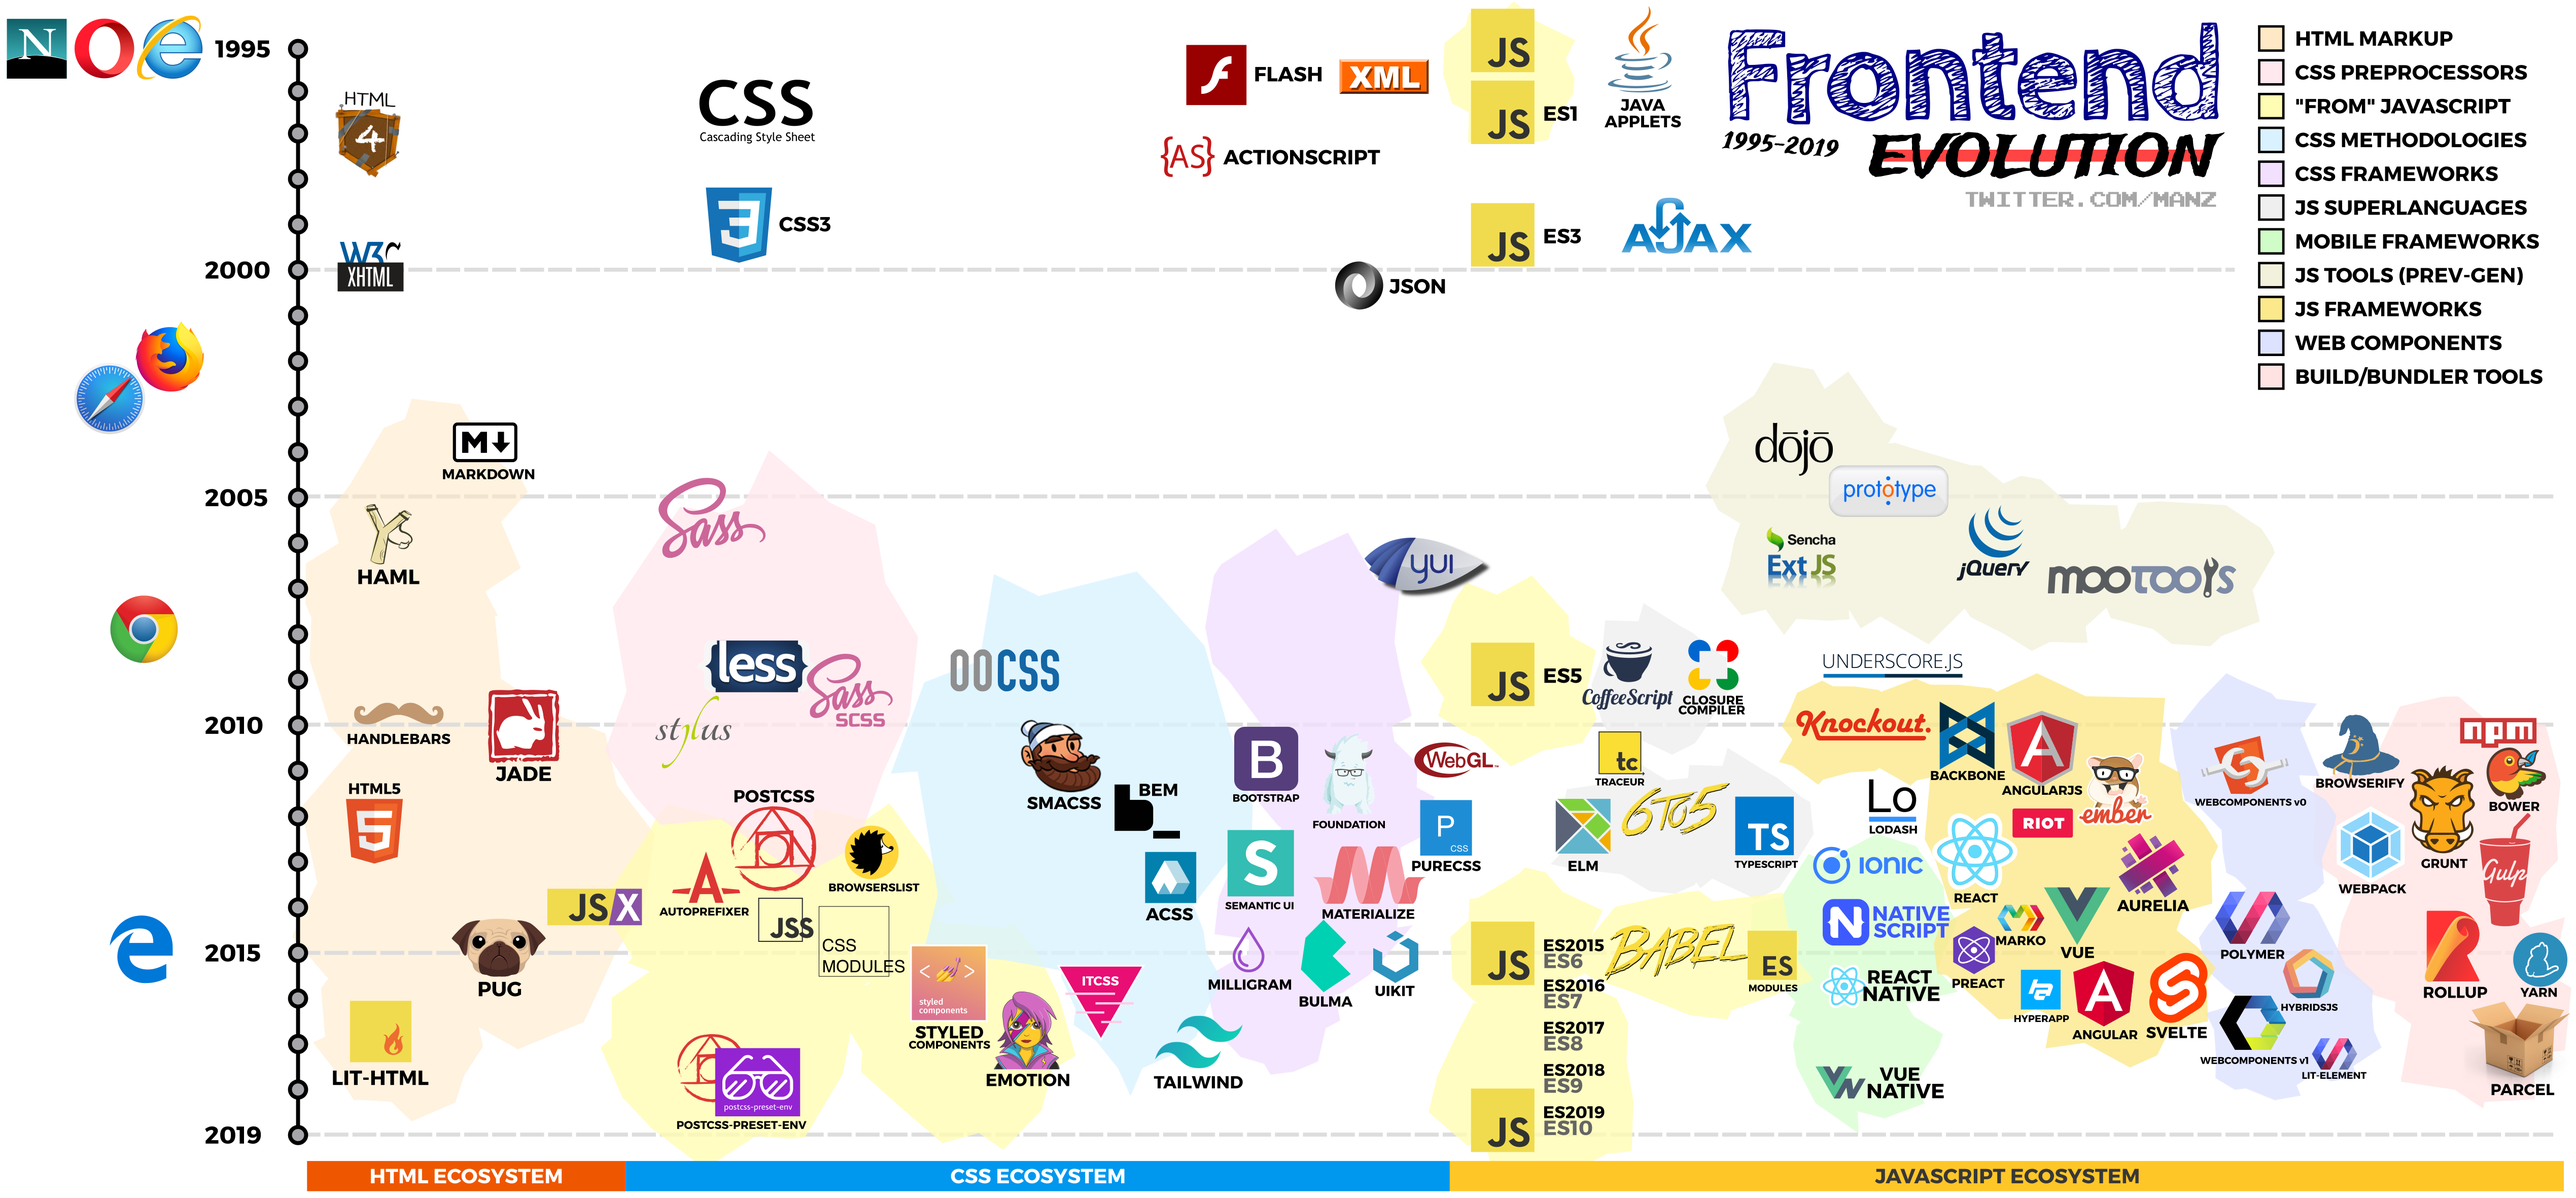
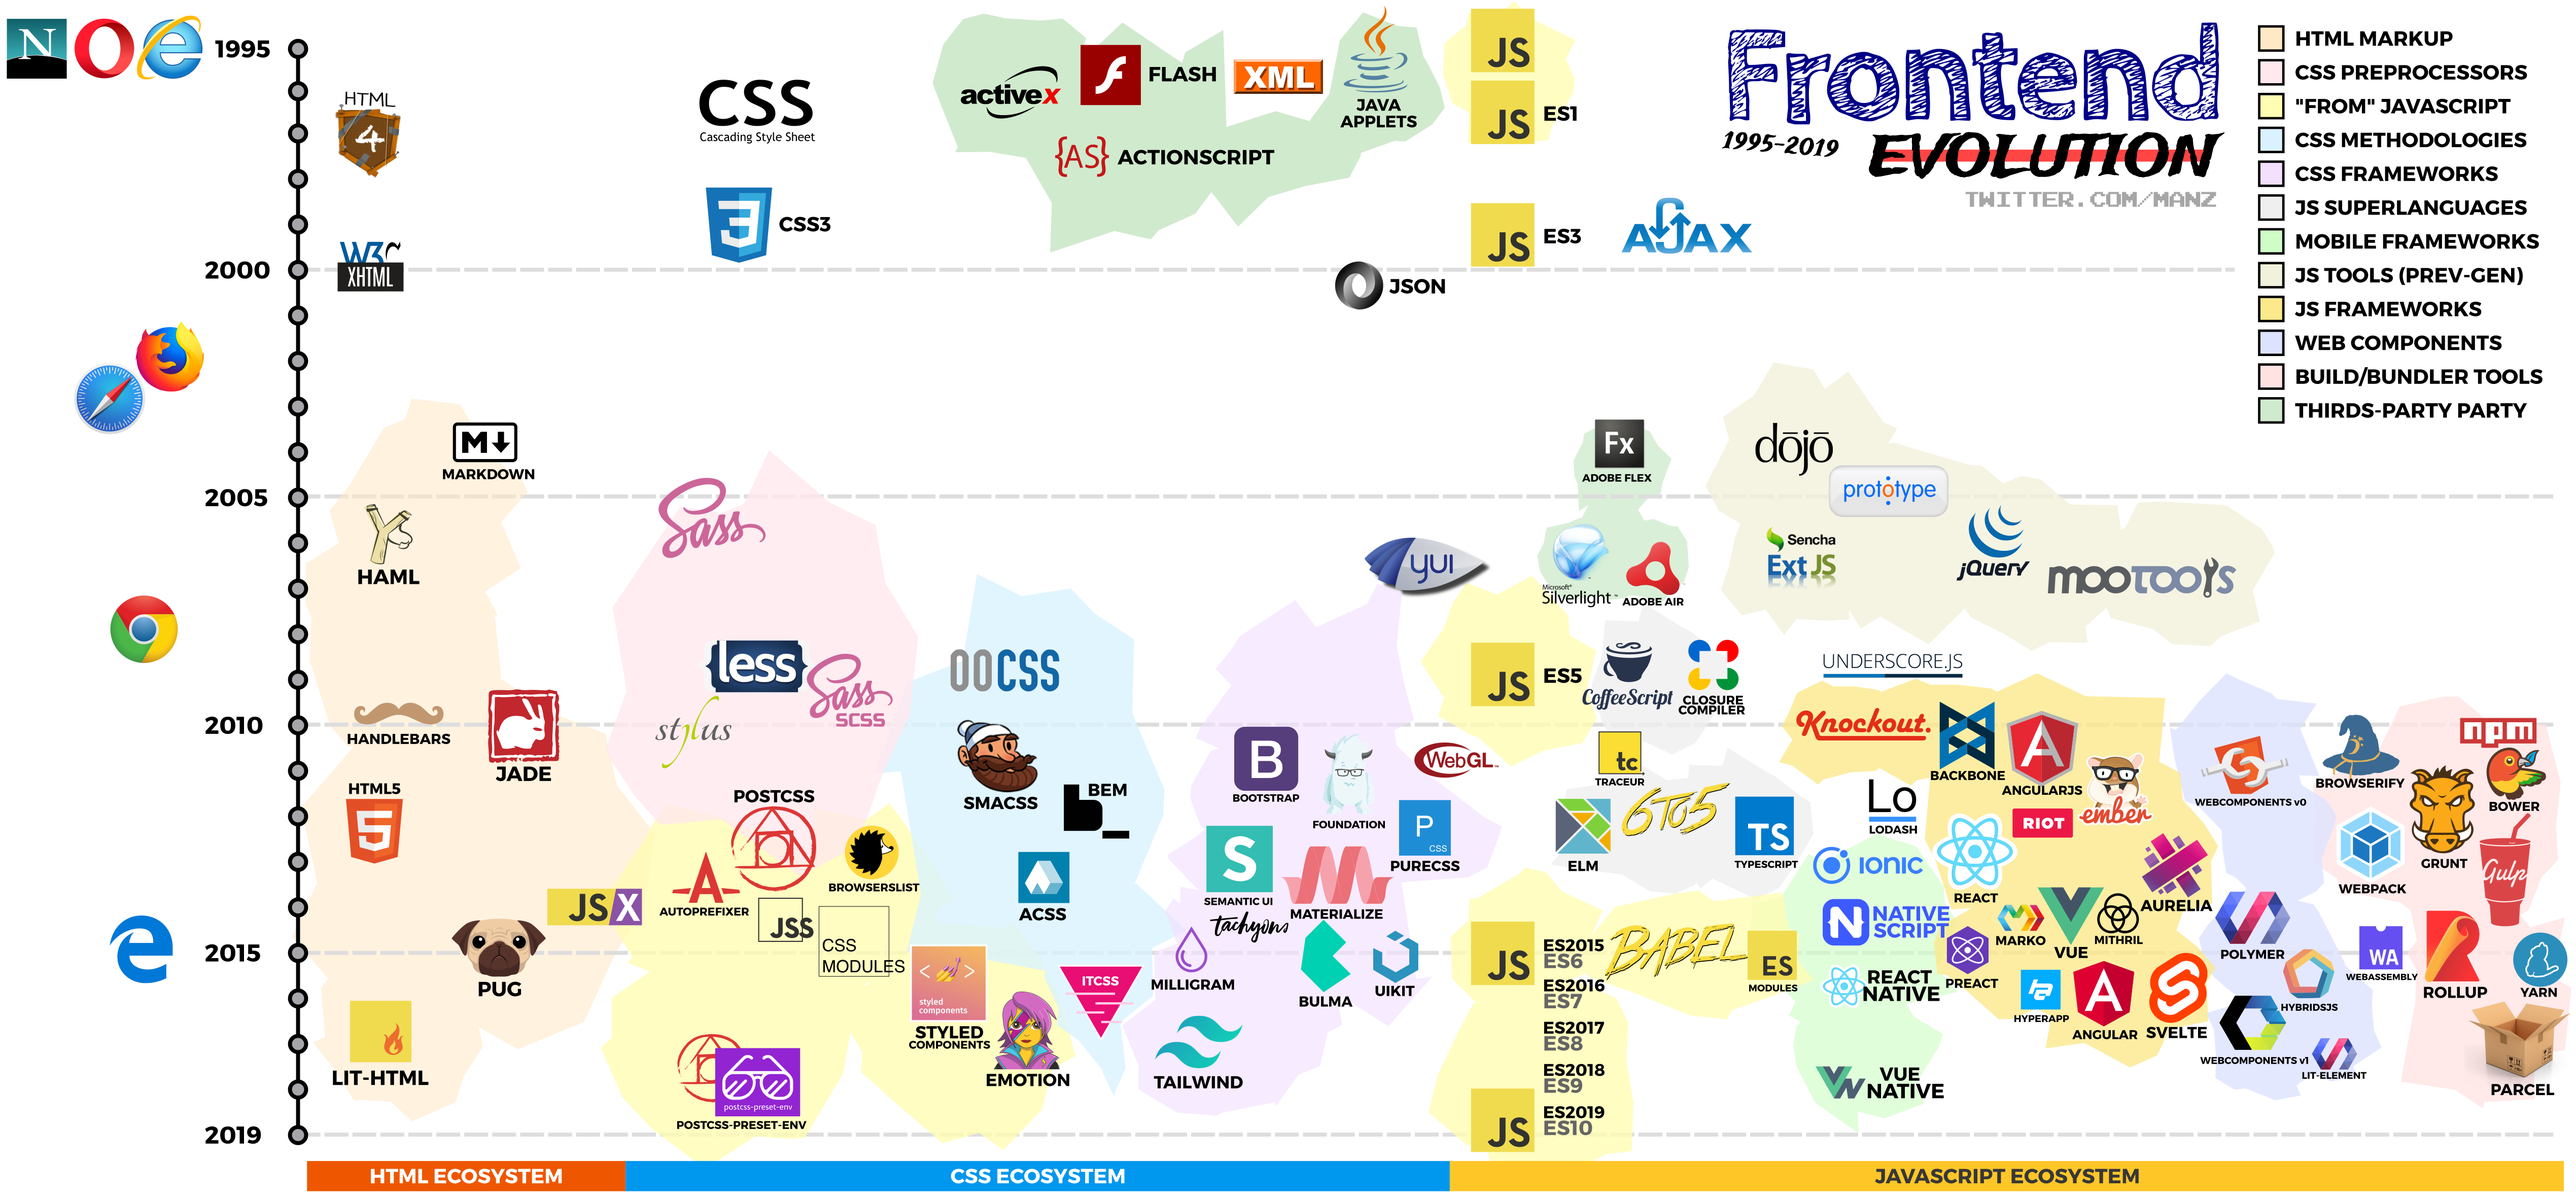
Silverlight, flex, air & others added

diff --git a/README.md b/README.md
@@ -68,6 +68,7 @@
 - [2012] Pure CSS <https://purecss.io/>
 - [2013] Semantic UI <https://semantic-ui.com/>
 - [2013] Materialize CSS <https://materializecss.com/>
+- [2014] Tachyons <https://tachyons.io/>
 - [2015] Milligram <https://milligram.io/>
 - [2015] Bulma <https://bulma.io/>
 - [2015] UIKit <https://getuikit.com/>
@@ -78,9 +79,14 @@
 ### Third-party & Others
 
 - [1995] Java Applets* <https://www.java.com/es/>
+- [1996] ActiveX [http://activex.microsoft.com/](http://web.archive.org/web/20050930205552/http://activex.microsoft.com/)
 - [1996] XML <https://www.w3.org/XML/>
 - [1997] ActionScript <https://www.adobe.com/devnet/actionscript.html>
+- [2004] Adobe Flex <https://www.adobe.com/es/products/flex.html>
+- [2007] Silverlight <https://www.microsoft.com/silverlight/>
+- [2008] Adobe AIR <https://www.adobe.com/products/air.html>
 - [2011] WebGL <https://www.khronos.org/webgl/>
+- [2015] WebAssembly <https://webassembly.org/>
 
 \* *Not Javascript*
 
@@ -126,6 +132,7 @@
 - [2013] RiotJS <https://riot.js.org/>
 - [2013] React <https://reactjs.org/>
 - [2014] Aurelia <https://aurelia.io/>
+- [2014] Mithril <https://mithril.js.org/>
 - [2014] Marko <https://markojs.com/>
 - [2015] Vue <https://vuejs.org/>
 - [2015] Preact <https://preactjs.com/>
